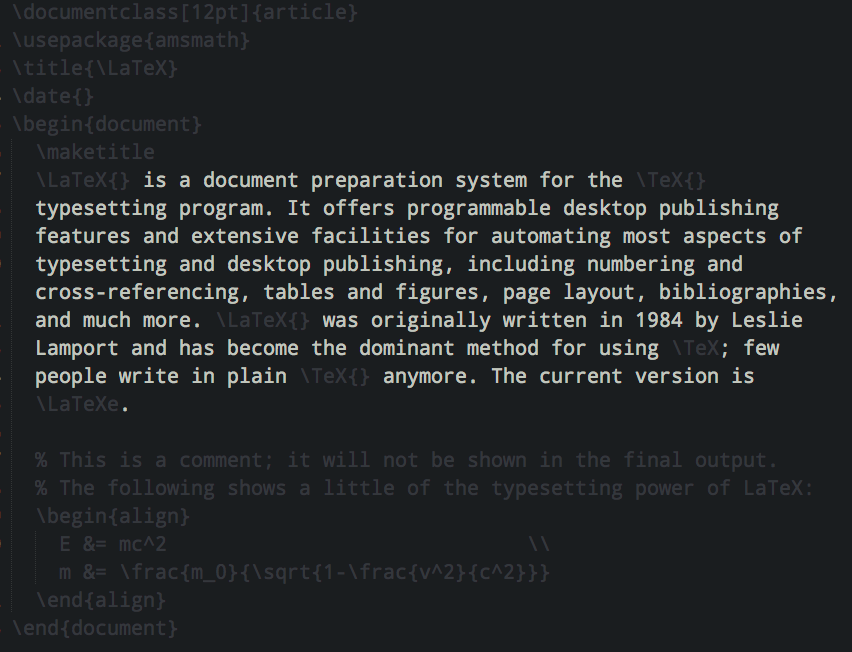
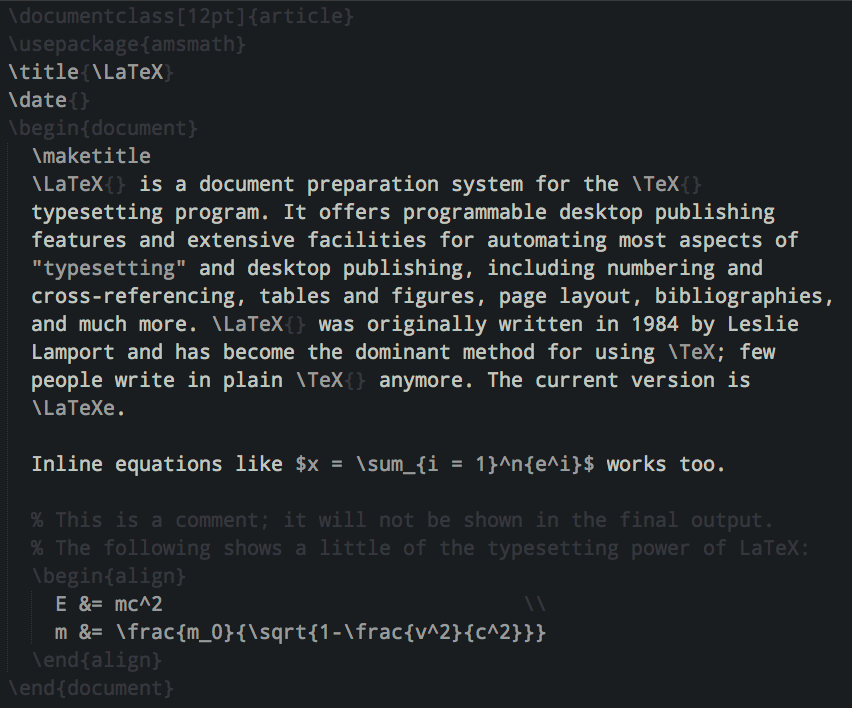
Add full LaTeX support
Fixes #6

Changed region(s): [[0.0, 0.0, 0.9765, 0.9816]]

diff --git a/latex-testcase.tex b/latex-testcase.tex
@@ -1,0 +1,29 @@
+\documentclass[12pt]{article}
+\usepackage{amsmath}
+\title{\LaTeX}
+\date{}
+\begin{document}
+  \maketitle
+  \LaTeX{} is a document preparation system for the \TeX{}
+  typesetting program. It offers programmable desktop publishing
+  features and extensive facilities for automating most aspects of
+  "typesetting" and desktop publishing, including numbering and
+  cross-referencing, tables and figures, page layout, bibliographies,
+  and much more. \LaTeX{} was originally written in 1984 by Leslie
+  Lamport and has become the dominant method for using \TeX; few
+  people write in plain \TeX{} anymore. The current version is
+  \LaTeXe.
+
+  Inline equations like $x = \sum_{i = 1}^n{e^i}$ works too.
+
+  % This is a comment; it will not be shown in the final output.
+  % The following shows a little of the typesetting power of LaTeX:
+  \begin{align}
+    E &= mc^2                              \\
+    m &= \frac{m_0}{\sqrt{1-\frac{v^2}{c^2}}}
+  \end{align}
+\end{document}
+
+
+
+

diff --git a/readme.md b/readme.md
@@ -49,5 +49,4 @@ I would be more than happy to accept PRs for ports to other editors that doesn't
 
 ## License
 
-[MIT License](http://en.wikipedia.org/wiki/MIT_License)
-(c) [Sindre Sorhus](http://sindresorhus.com)
+MIT License • © [Sindre Sorhus](http://sindresorhus.com)
